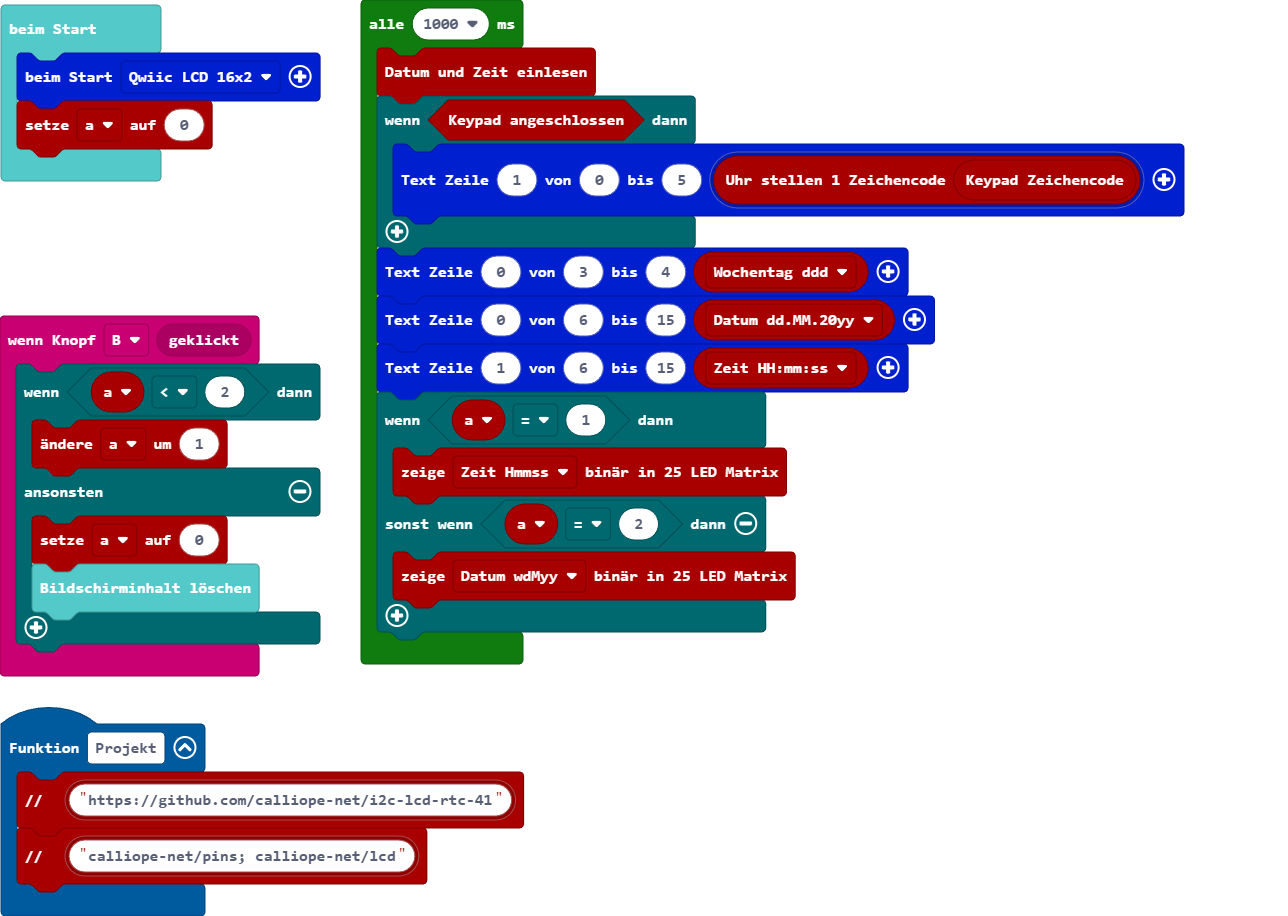
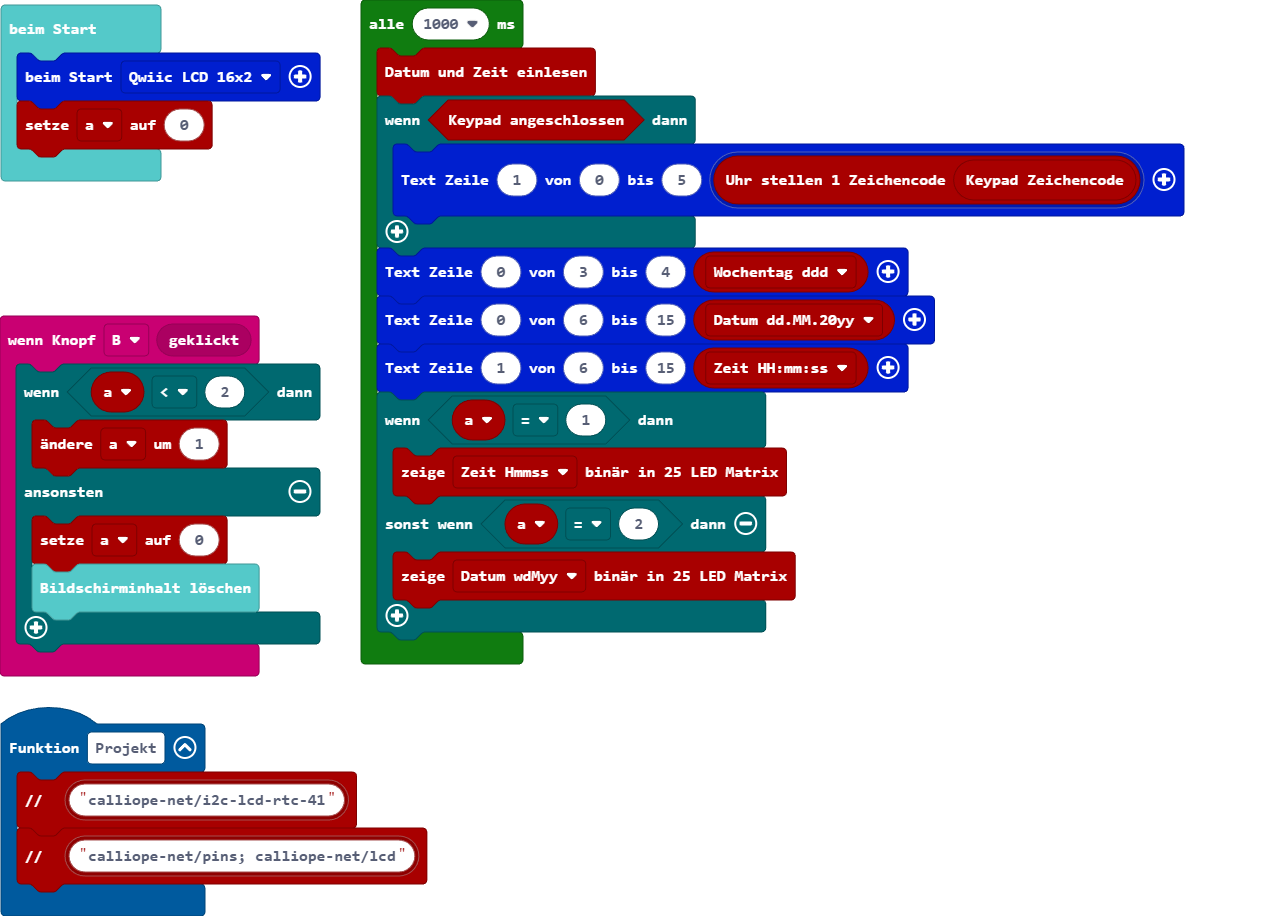
Aktualisiere main.blocks, main.ts

Changed region(s): [[0.0621, 0.8253, 0.4348, 0.917]]

diff --git a/main.ts b/main.ts
@@ -7,7 +7,7 @@ input.onButtonEvent(Button.B, input.buttonEventClick(), function () {
     }
 })
 function Projekt () {
-    pins.comment(pins.pins_text("https://github.com/calliope-net/i2c-lcd-rtc-41"))
+    pins.comment(pins.pins_text("calliope-net/i2c-lcd-rtc-41"))
     pins.comment(pins.pins_text("calliope-net/pins; calliope-net/lcd"))
 }
 let a = 0
